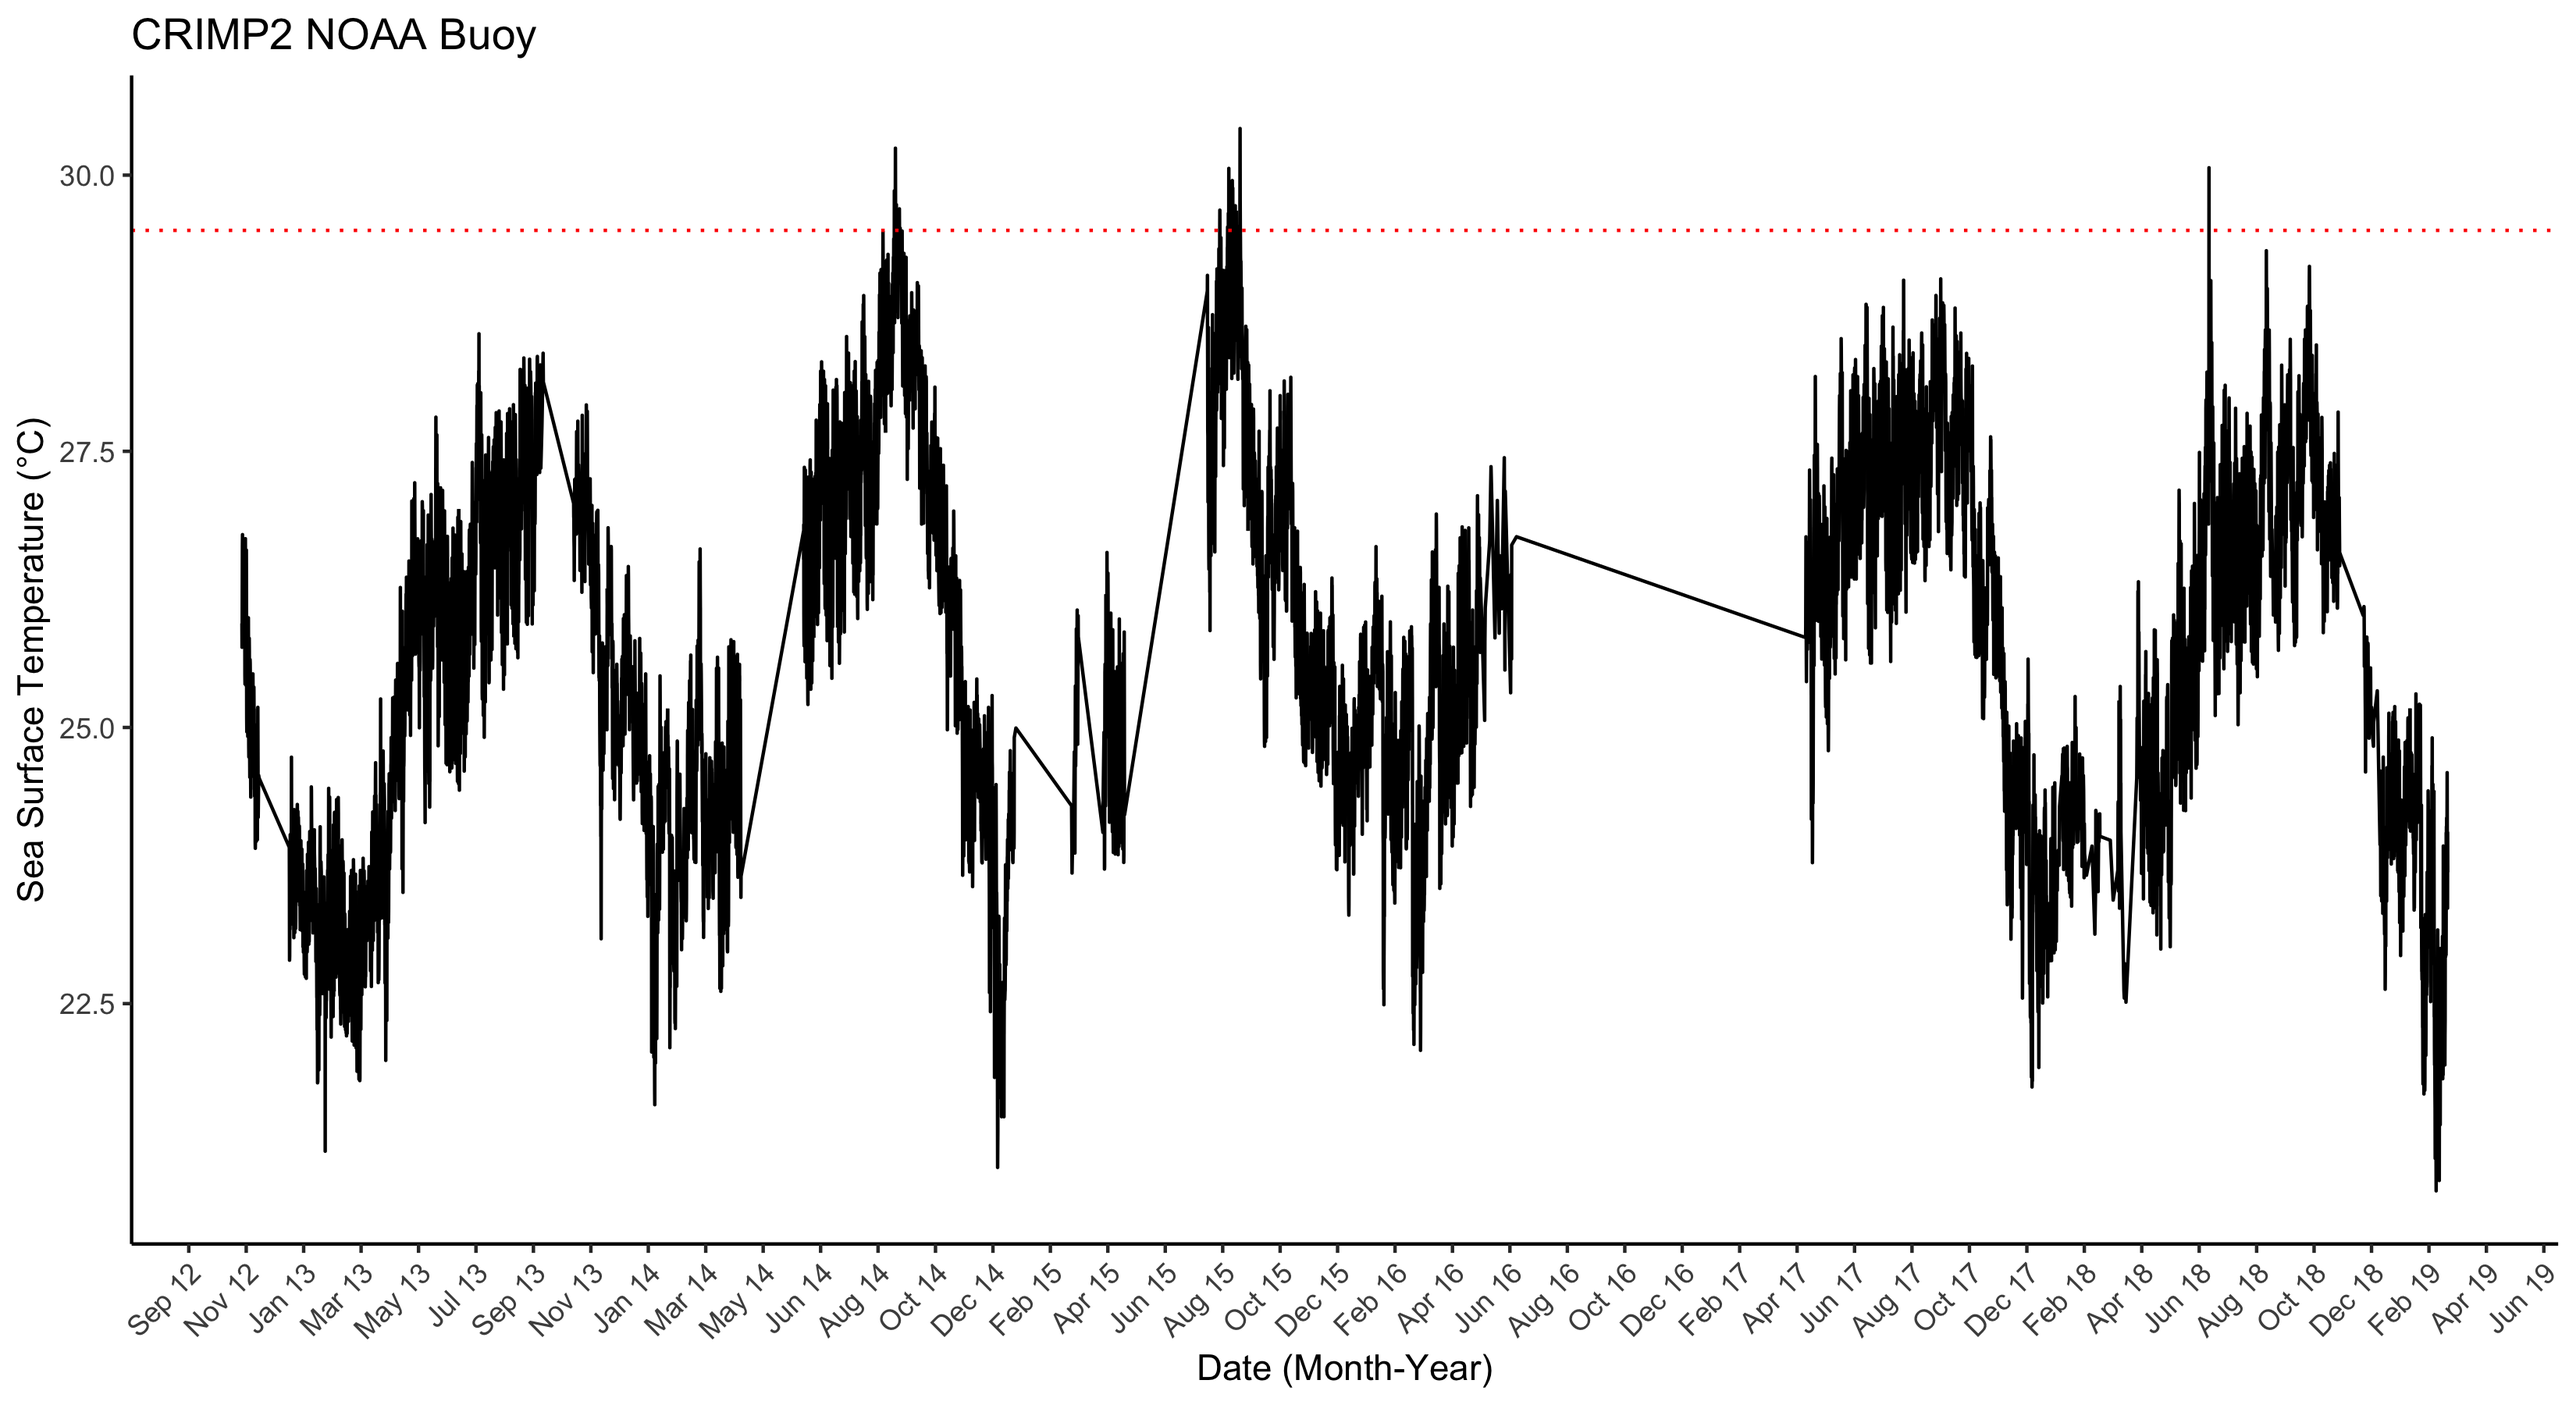
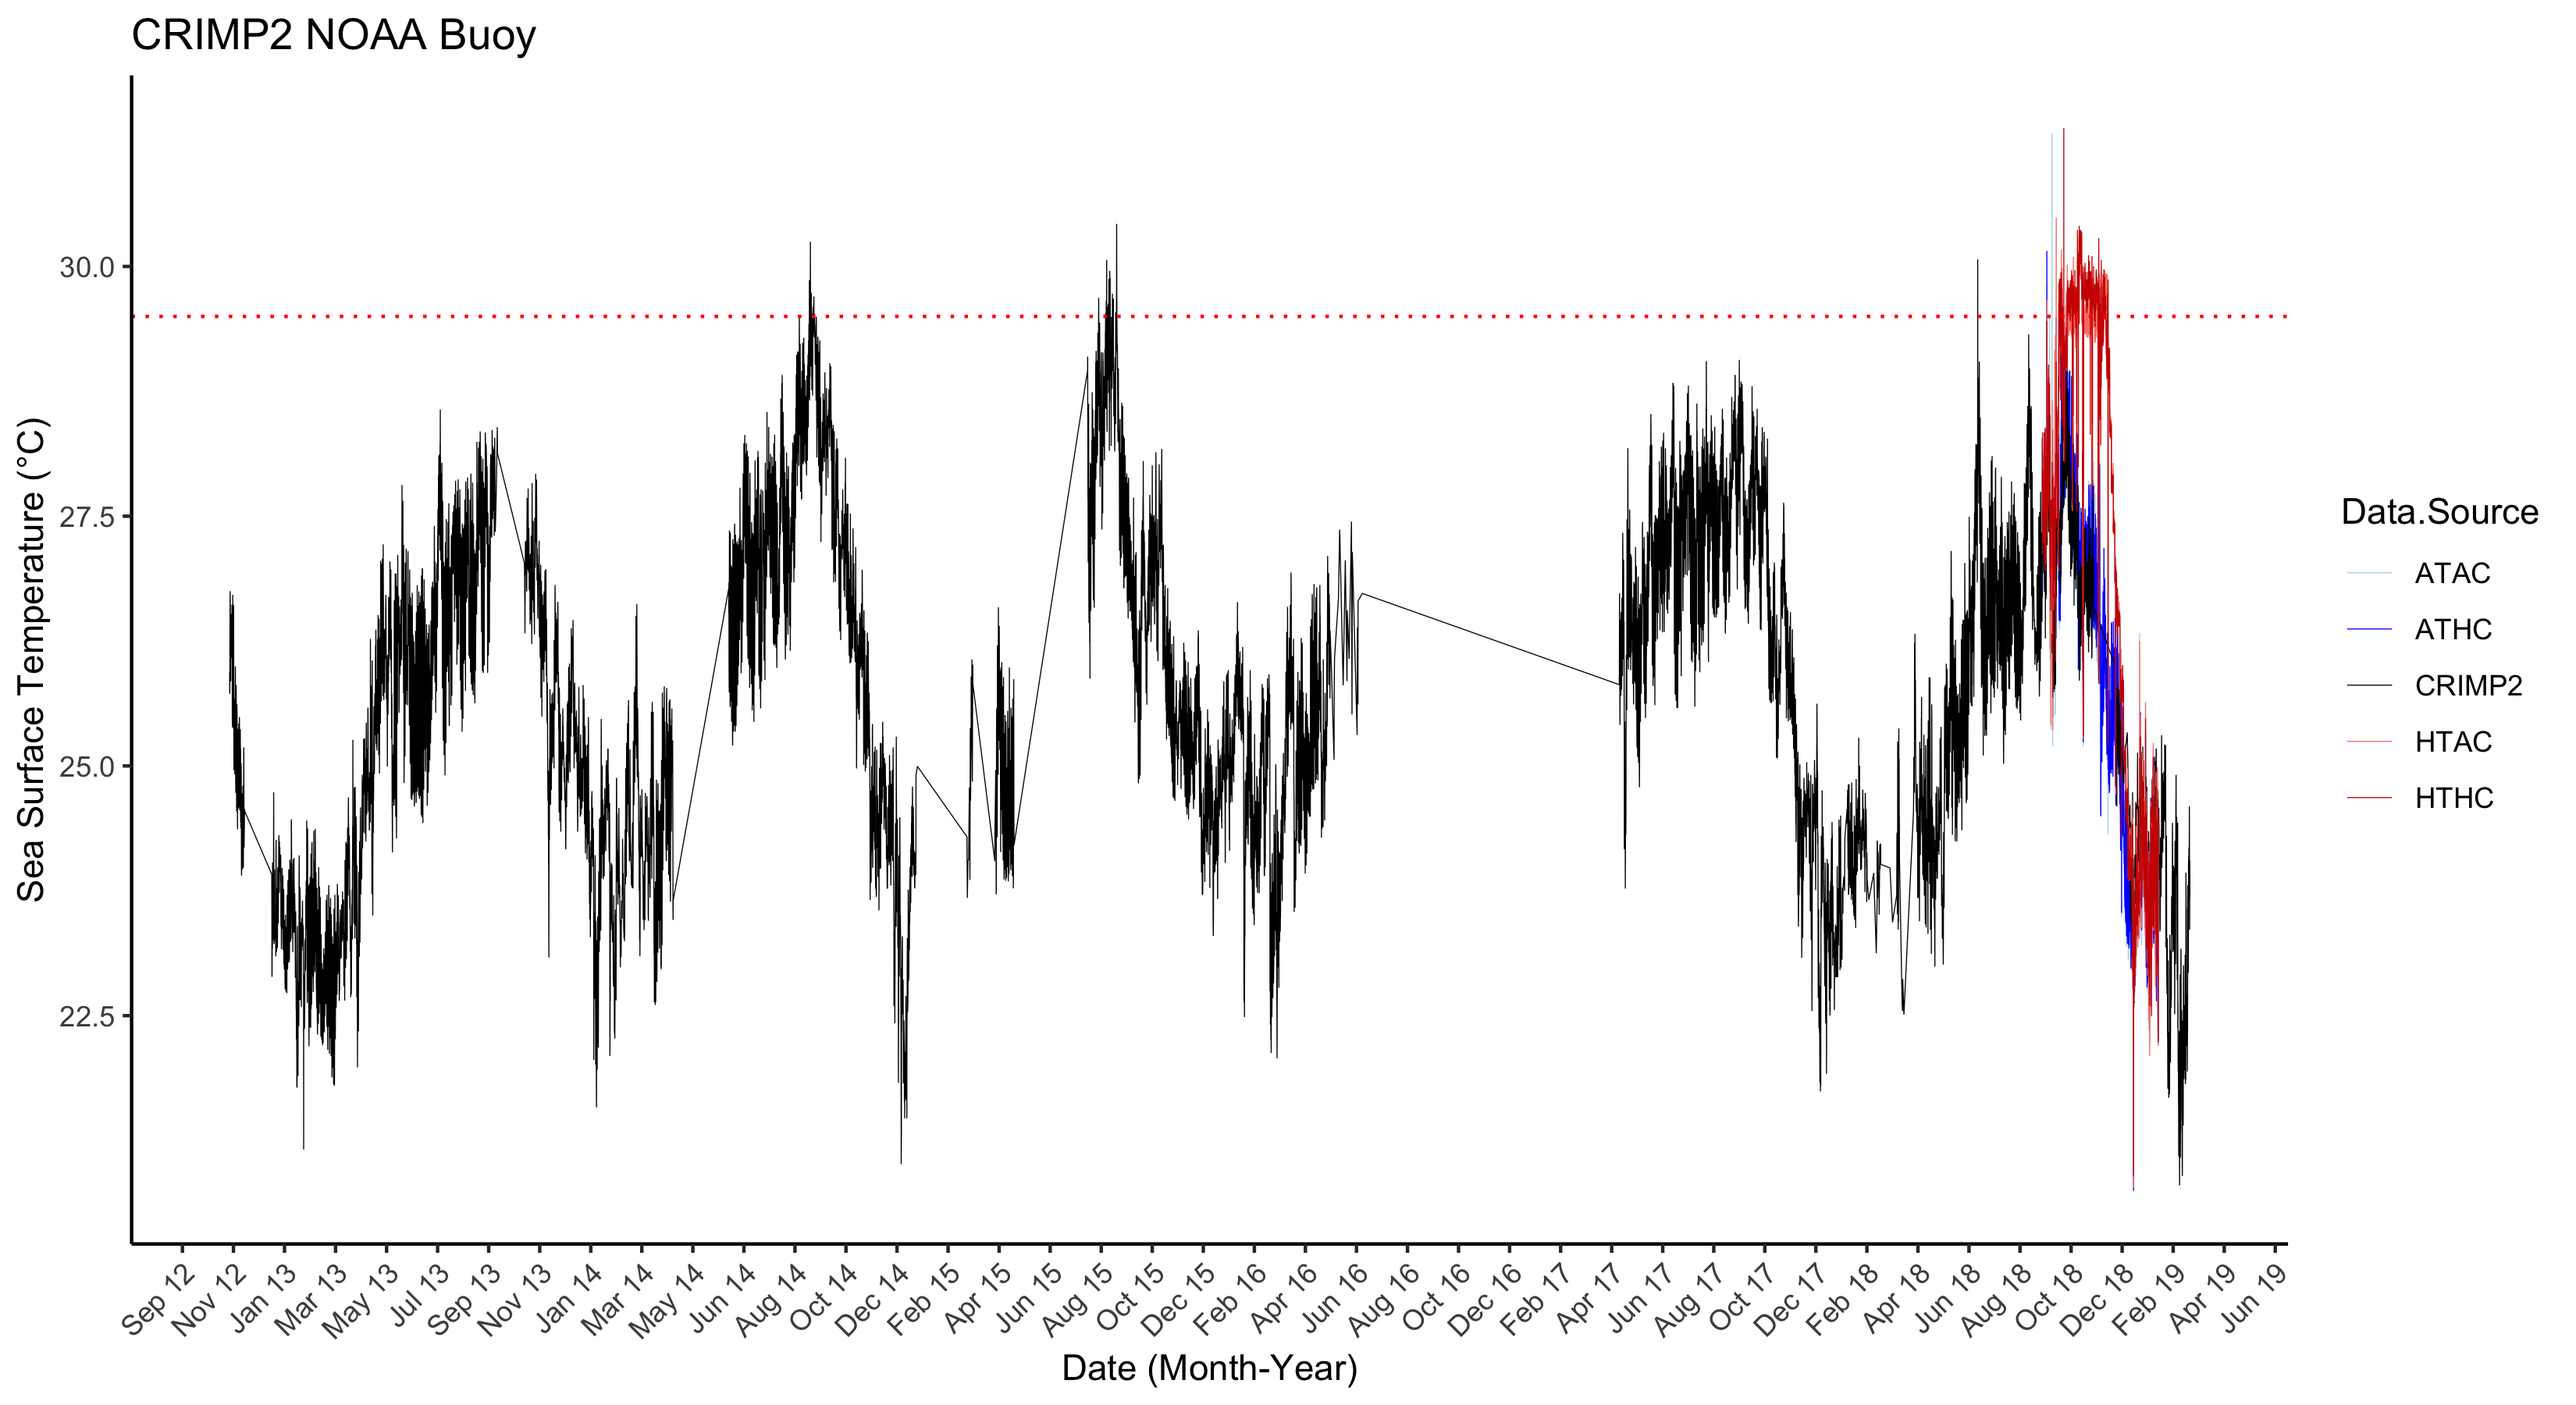
overlaying expt data on top of buoy data

Changed region(s): [[0.0936, 0.1244, 0.593, 0.8089], [0.6242, 0.1556, 0.9988, 0.8089], [0.0312, 0.8711, 0.9988, 0.9956]]

diff --git a/Results-package.md b/Results-package.md
@@ -20,6 +20,8 @@ CRIMP2 Temperature Data
 
 ![crimp2temp](https://github.com/hputnam/Acclim_Dynamics/blob/master/Output/CRIMP2-Temperature.png?raw=true)
 
+The red line is at 29.5, the average temperature for our data. Next steps would be to overlay our expt data on 2018-2019 portion. 
+
 CRIMP2 pCO2 Data
 
 ![crimp2pco2]()
